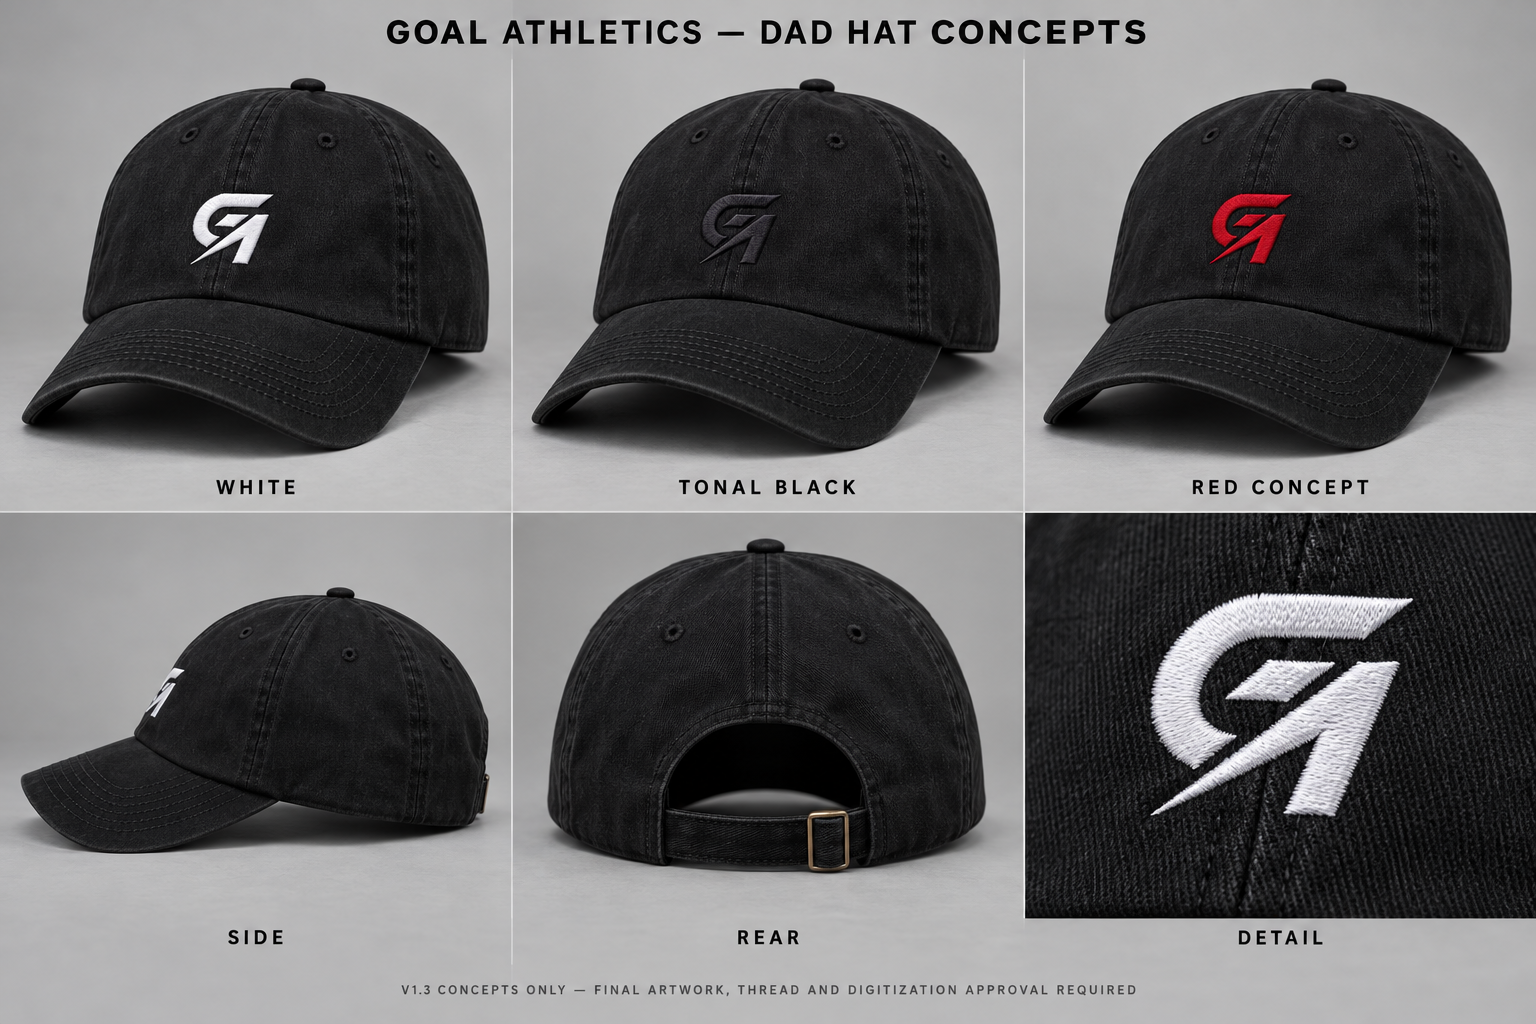
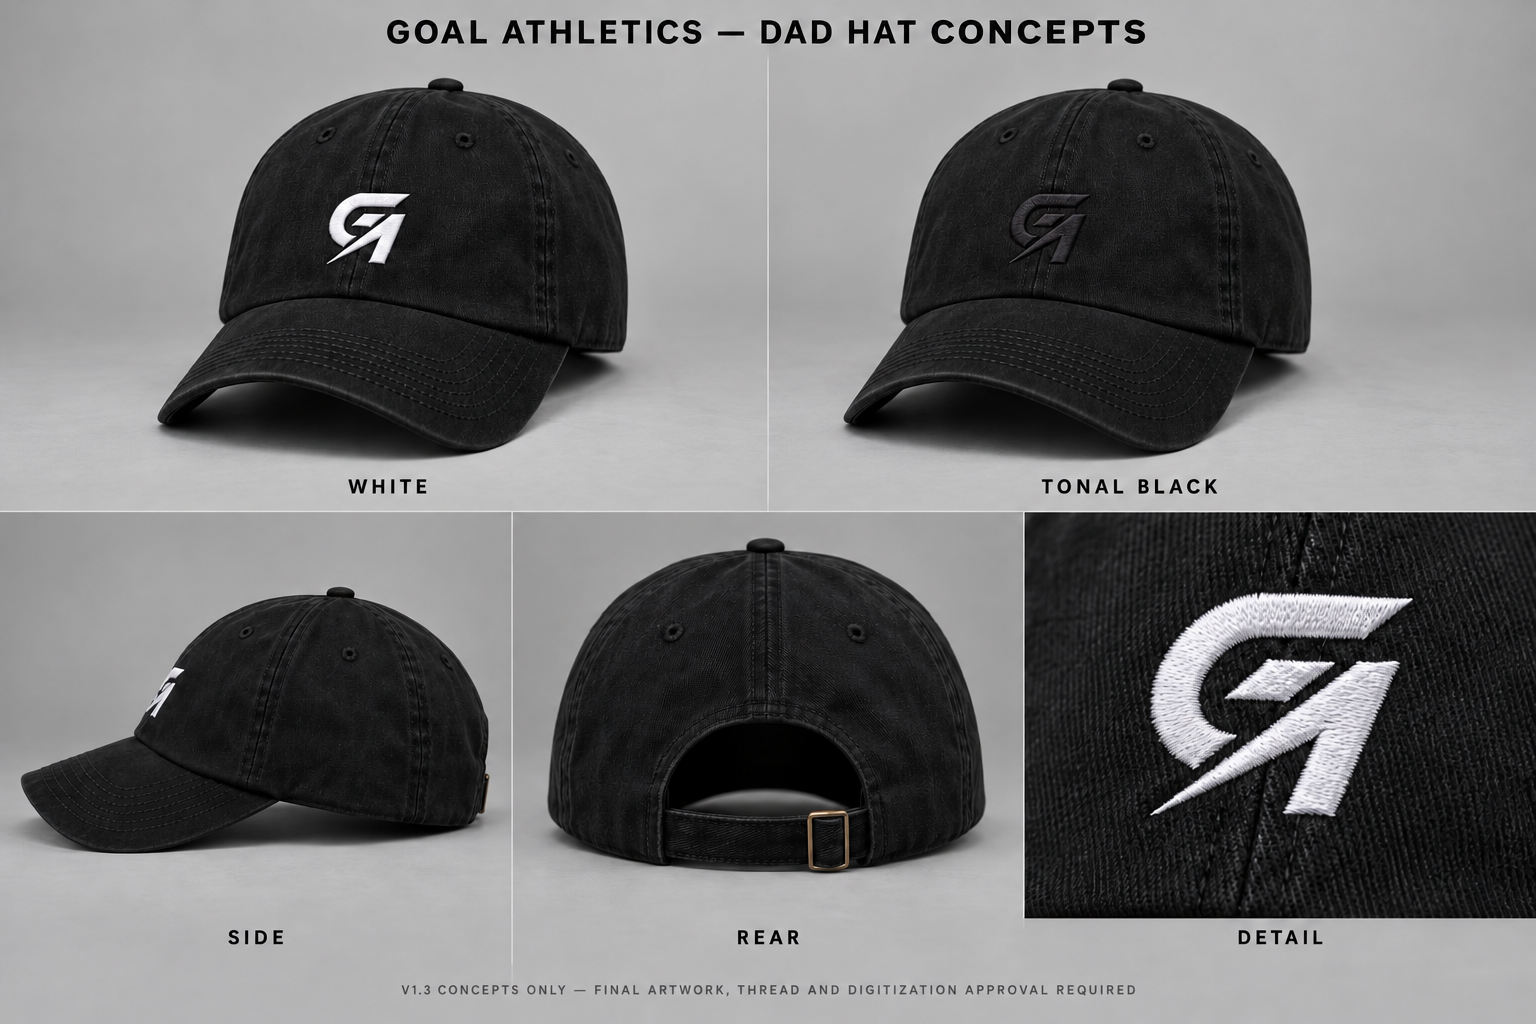
Remove red dad hat concept; retain white and tonal black

diff --git a/src/app/references/caps/page.tsx b/src/app/references/caps/page.tsx
@@ -30,7 +30,7 @@ export default function CapConceptReview() {
     </section>
     <section style={{ marginTop: 36, lineHeight: 1.7 }}><h2>Manufacturer verification still required</h2>
       <p>The dad-hat product page&apos;s embroidery table shows 4 × 4 inches; APLIIQ&apos;s hat-specific guidance says approximately 4 × 2 inches. Resolve this conflict before setting production dimensions. At final size, detail must support at least 2 mm stitches and small lettering needs vendor approval. Do not infer stitch counts from these images.</p>
-      <p>Dad hat: black garment only. White and tonal-black thread concepts, plus a brand-red contrast concept awaiting physical thread approval. Side and rear remain blank. No rear separator bar.</p>
+      <p>Dad hat: black garment only. White and tonal-black thread concepts only. Side and rear remain blank. No rear separator bar.</p>
       <p>Owner concept approval, original artwork, vendor placement/digitization proof, replacement saved-design IDs, final costs and release approval remain outstanding. No sample orders or supplier submissions were made.</p>
     </section>
   </main>;
